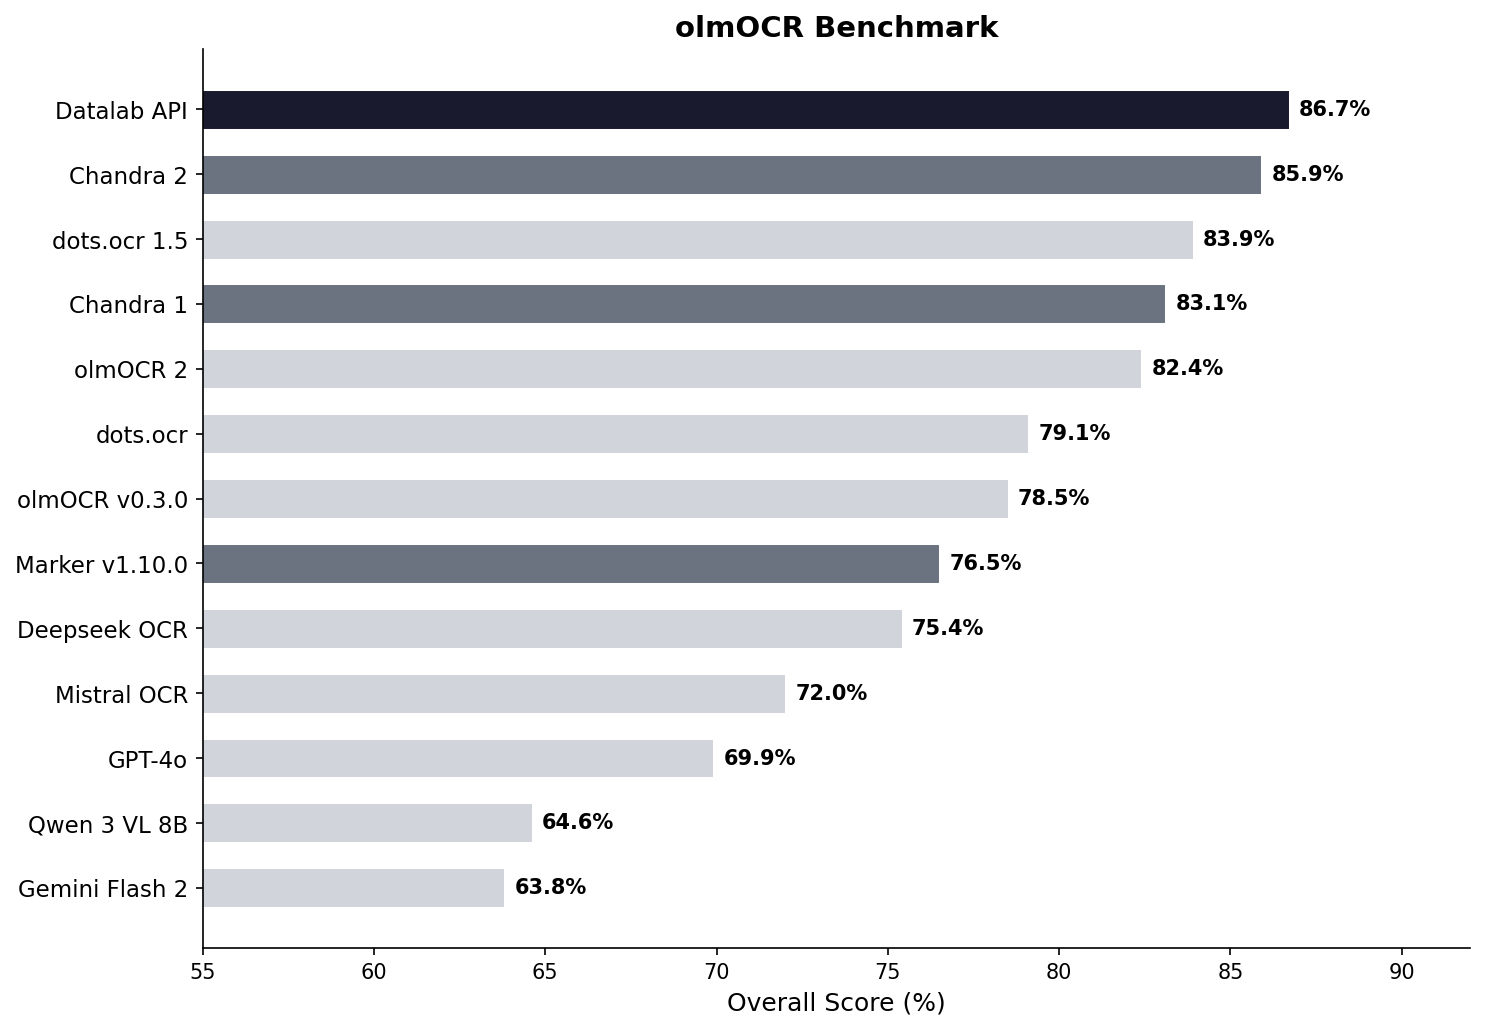
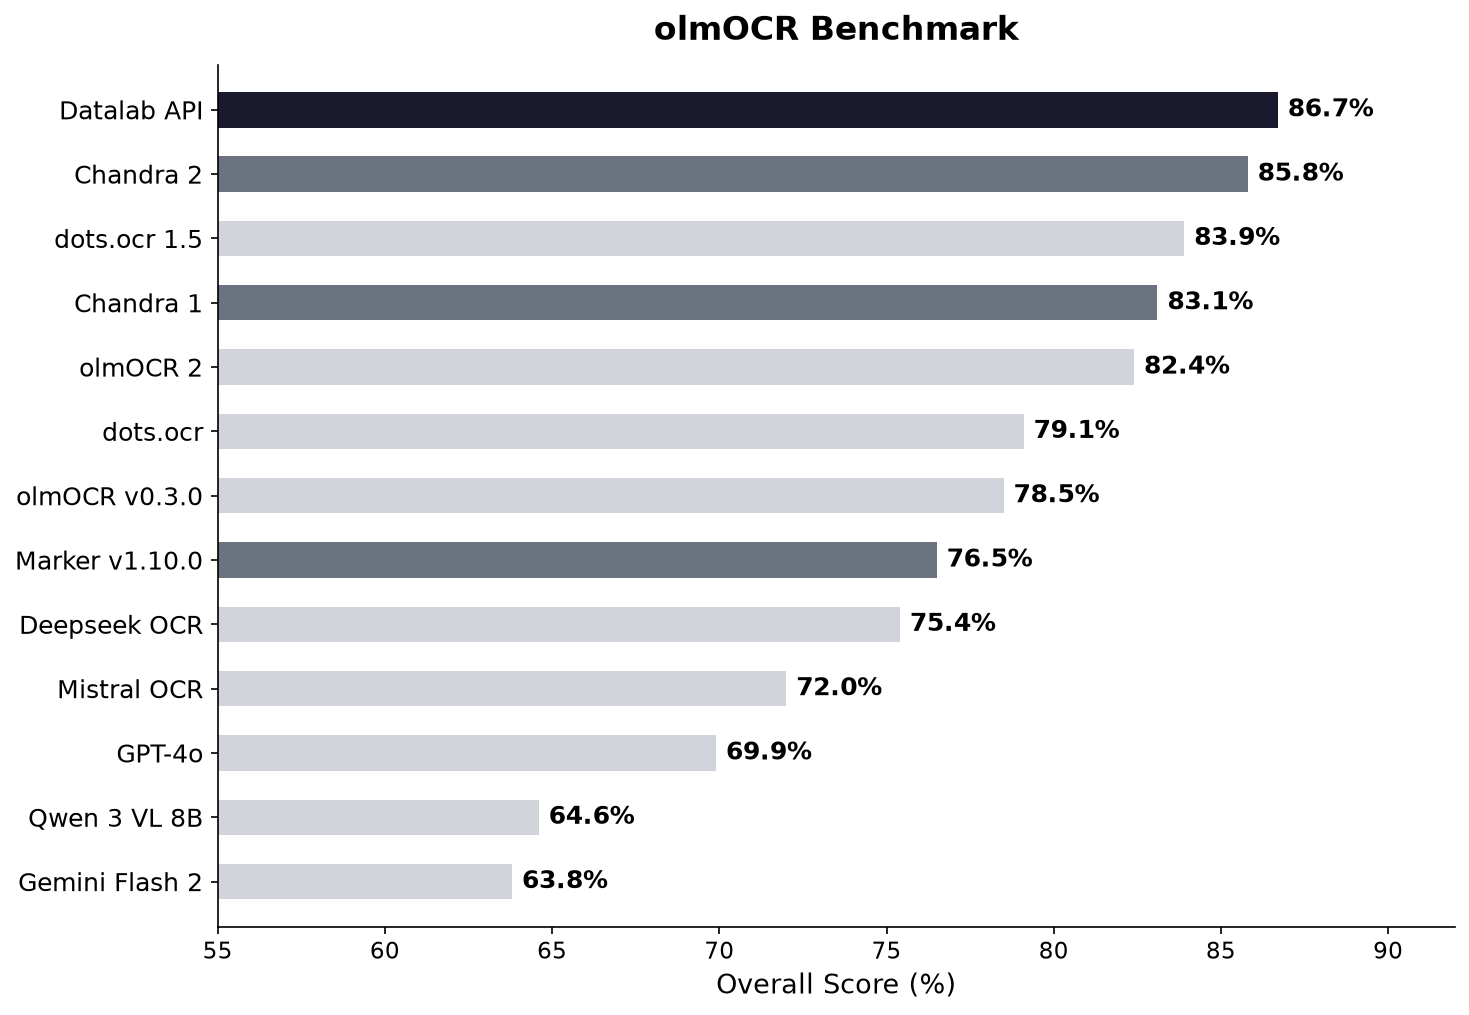
Merge pull request #110 from datalab-to/dev
Dev

Pull request: Dev

diff --git a/chandra/scripts/olmocr_bench.py b/chandra/scripts/olmocr_bench.py
@@ -1,0 +1,260 @@
+"""
+Reproduce Chandra-OCR-2's score on the upstream olmOCR-bench
+(github.com/allenai/olmocr), end to end:
+
+  1. download the olmOCR-bench dataset (allenai/olmOCR-bench) from HuggingFace,
+  2. OCR every bench page with Chandra (this repo) against a running vLLM server,
+  3. apply postprocessing to correct Chandra markdown to more standard markdown.
+  4. score with `olmocr.bench.benchmark`.
+
+Reference result: ~85.8% overall.
+
+Usage:
+    # 1) in one terminal, serve the model (see OLMOCR_BENCH.md):
+    chandra_vllm
+    # 2) in another:
+    python -m chandra.scripts.olmocr_bench --bench-dir ./olmOCR-bench/bench_data
+"""
+
+import argparse
+import glob
+import html as _html
+import os
+import re
+import subprocess
+import sys
+
+import unicodeit
+
+from chandra.input import load_pdf_images
+from chandra.model import InferenceManager
+from chandra.model.schema import BatchInputItem
+from chandra.settings import settings
+
+
+# --------------------------- output-only postprocess ---------------------------
+def _latex_to_unicode(s: str) -> str:
+    """LaTeX -> Unicode for table-cell math, via the `unicodeit` library
+    (Greek, symbols, ^/_).  We pre-strip \\text/\\mathrm and \\frac (which
+    unicodeit leaves as-is), and post-strip any commands it didn't recognize."""
+    s = _html.unescape(s)
+    s = re.sub(r"\\(?:text|mathrm)\s*\{([^}]*)\}", r"\1", s)
+    s = re.sub(r"\\frac\s*\{([^{}]*)\}\s*\{([^{}]*)\}", r"\1/\2", s)
+    try:
+        s = unicodeit.replace(s)
+    except Exception:  # noqa: BLE001 - never let a stray token kill the doc
+        pass
+    s = (
+        re.sub(r"\\[a-zA-Z]+", "", s)
+        .replace("{", "")
+        .replace("}", "")
+        .replace("\\", "")
+    )
+    return re.sub(r"\s+", " ", s).strip()
+
+
+# Unicode sub/superscript maps for <sub>/<sup> digit+operator content.
+_SUP = {c: u for c, u in zip("0123456789+-=()n", "⁰¹²³⁴⁵⁶⁷⁸⁹⁺⁻⁼⁽⁾ⁿ")}
+_SUB = {c: u for c, u in zip("0123456789+-=()", "₀₁₂₃₄₅₆₇₈₉₊₋₌₍₎")}
+
+
+def _subsup_to_unicode(s: str) -> str:
+    """<sub>2</sub> -> ₂, <sup>2</sup> -> ²"""
+    s = re.sub(
+        r"<sub>(.*?)</sub>",
+        lambda m: "".join(_SUB.get(c, c) for c in m.group(1)),
+        s,
+        flags=re.S | re.I,
+    )
+    s = re.sub(
+        r"<sup>(.*?)</sup>",
+        lambda m: "".join(_SUP.get(c, c) for c in m.group(1)),
+        s,
+        flags=re.S | re.I,
+    )
+    return re.sub(r"</?su[bp]>", "", s)  # drop any leftover unmapped tags
+
+
+def _strip_escapes_outside_math(s: str) -> str:
+    """Drop the stray backslash-escapes chandra markdown conversion leaves behind (\\_ \\* \\$ ...)"""
+    parts = re.split(r"(\$\$.*?\$\$|\$[^$\n]+\$)", s, flags=re.S)
+    for i in range(0, len(parts), 2):  # even indices are non-math
+        parts[i] = re.sub(r"\\([_*$%&#.+()\[\]!>~^{}])", r"\1", parts[i])
+    return "".join(parts)
+
+
+def postprocess(md: str) -> str:
+    """Reformat Chandra markdown for olmoCR scoring (output-only).
+
+    * table-cell <math>..</math> -> Unicode (chandra has latex in tables)
+    * HTML-unescape inside prose math spans (\\&amp;c. -> \\&c.)
+    * <sub>/<sup> -> Unicode (chandra has sup tags in output)
+    * drop stray escape backslashes outside math spans (introduced by Chandra markdown renderer)
+    * drop synthesized figure captions (chandra-specific synth captions)
+    """
+    # only <math> tags Chandra leaves are inside tables -> convert to Unicode
+    s = re.sub(
+        r"<math\b[^>]*>(.*?)</math>",
+        lambda m: _latex_to_unicode(m.group(1)),
+        md,
+        flags=re.S | re.I,
+    )
+    s = re.sub(
+        r"\$\$(.+?)\$\$",
+        lambda m: "$$" + _html.unescape(m.group(1)) + "$$",
+        s,
+        flags=re.S,
+    )
+    s = re.sub(r"\$([^$\n]+)\$", lambda m: "$" + _html.unescape(m.group(1)) + "$", s)
+    s = _subsup_to_unicode(s)
+    s = _strip_escapes_outside_math(s)
+    # Drop image markdown (Chandra emits synthesized figure descriptions as alt
+    # text)
+    s = re.sub(r"!\[[^\]]*\]\([^)]*\)", "", s)
+    return s
+
+
+def download_bench(bench_dir: str) -> str:
+    """Ensure the olmOCR-bench data is present; return the bench_data dir."""
+    if os.path.isdir(os.path.join(bench_dir, "pdfs")):
+        return bench_dir
+    from huggingface_hub import snapshot_download
+
+    print("Downloading allenai/olmOCR-bench from HuggingFace ...")
+    local = snapshot_download(
+        repo_id="allenai/olmOCR-bench",
+        repo_type="dataset",
+        allow_patterns=["bench_data/**"],
+    )
+    src = os.path.join(local, "bench_data")
+    os.makedirs(os.path.dirname(bench_dir) or ".", exist_ok=True)
+    import shutil
+
+    shutil.copytree(src, bench_dir, dirs_exist_ok=True)
+    return bench_dir
+
+
+def run_inference(
+    bench_dir, candidate, image_dpi, workers, vllm_api_base, apply_postprocess=True
+):
+    pdf_dir = os.path.join(bench_dir, "pdfs")
+    pdfs = sorted(glob.glob(os.path.join(pdf_dir, "**", "*.pdf"), recursive=True))
+    cand_dir = os.path.join(bench_dir, candidate)
+    print(f"OCR'ing {len(pdfs)} bench pages with Chandra (dpi={image_dpi}) ...")
+    mgr = InferenceManager(method="vllm")
+
+    def out_path(pdf):
+        rel = os.path.relpath(pdf, pdf_dir)
+        return os.path.join(cand_dir, f"{os.path.splitext(rel)[0]}_pg1_repeat1.md")
+
+    done, buf = 0, []
+
+    def flush(batch):
+        nonlocal done
+        if not batch:
+            return
+        items = [BatchInputItem(image=im, prompt_type="ocr_layout") for _, im in batch]
+        outs = mgr.generate(items, vllm_api_base=vllm_api_base, max_workers=workers)
+        for (pdf, _im), out in zip(batch, outs):
+            op = out_path(pdf)
+            os.makedirs(os.path.dirname(op), exist_ok=True)
+            md = out.markdown or ""
+            with open(op, "w", encoding="utf-8") as f:
+                f.write(postprocess(md) if apply_postprocess else md)
+        done += len(batch)
+        print(f"  {done}/{len(pdfs)}")
+
+    for pdf in pdfs:
+        if os.path.exists(out_path(pdf)):  # resumable
+            continue
+        try:
+            imgs = load_pdf_images(pdf, page_range=[0], image_dpi=image_dpi)
+        except Exception as e:
+            print(f"  render failed {pdf}: {e}")
+            continue
+        if imgs:
+            buf.append((pdf, imgs[0]))
+        if len(buf) >= workers:
+            flush(buf)
+            buf = []
+    flush(buf)
+    return cand_dir
+
+
+def main():
+    ap = argparse.ArgumentParser(
+        description="Benchmark Chandra on upstream olmOCR-bench."
+    )
+    ap.add_argument(
+        "--bench-dir",
+        default="./olmOCR-bench/bench_data",
+        help="Path to olmOCR-bench bench_data (downloaded if missing).",
+    )
+    ap.add_argument("--candidate", default="chandra", help="Candidate subdir name.")
+    ap.add_argument(
+        "--image-dpi", type=int, default=300, help="Render DPI (300 recommended)."
+    )
+    ap.add_argument("--workers", type=int, default=32, help="Concurrent vLLM requests.")
+    ap.add_argument(
+        "--vllm-api-base",
+        default=settings.VLLM_API_BASE,
+        help="vLLM OpenAI base URL (default from settings).",
+    )
+    ap.add_argument(
+        "--skip-inference",
+        action="store_true",
+        help="Reuse existing candidate markdown; only score.",
+    )
+    ap.add_argument(
+        "--skip-scoring",
+        action="store_true",
+        help="Only produce candidate markdown; don't run olmocr.bench.",
+    )
+    ap.add_argument(
+        "--stock",
+        action="store_true",
+        help="Stock baseline: render at DPI-192 and apply NO output postprocess",
+    )
+    args = ap.parse_args()
+
+    bench_dir = download_bench(args.bench_dir)
+    image_dpi = 192 if args.stock else args.image_dpi
+    if not args.skip_inference:
+        run_inference(
+            bench_dir,
+            args.candidate,
+            image_dpi,
+            args.workers,
+            args.vllm_api_base,
+            apply_postprocess=not args.stock,
+        )
+
+    if args.skip_scoring:
+        print(f"\nCandidate written to {os.path.join(bench_dir, args.candidate)}")
+        print(
+            "Score it with:  python -m olmocr.bench.benchmark "
+            f"--dir {bench_dir} --candidate {args.candidate}"
+        )
+        return
+
+    cmd = [
+        sys.executable,
+        "-m",
+        "olmocr.bench.benchmark",
+        "--dir",
+        bench_dir,
+        "--candidate",
+        args.candidate,
+    ]
+    print("\nScoring with upstream olmocr.bench:\n  " + " ".join(cmd) + "\n")
+    try:
+        subprocess.run(cmd, check=True)
+    except FileNotFoundError:
+        print(
+            "olmocr not installed. Install with: pip install olmocr[bench] && playwright install chromium"
+        )
+        sys.exit(1)
+
+
+if __name__ == "__main__":
+    main()

diff --git a/chandra/scripts/OLMOCR_BENCH.md b/chandra/scripts/OLMOCR_BENCH.md
@@ -1,0 +1,53 @@
+# Reproducing Chandra OCR 2 on olmOCR-bench
+
+End-to-end reproduction of Chandra-OCR-2's score on the upstream
+[olmOCR-bench](https://github.com/allenai/olmocr) (`allenai/olmOCR-bench`).
+
+**Reference result:** ~**85.8%** overall.  This is slightly below the 85.9% we measured at launch - this is mainly due to some text normalization we used in our launch benchmarking that differed from the standard olmocr benchmark.
+
+---
+
+## 1. Clone + install Chandra
+
+```bash
+git clone https://github.com/datalab-to/chandra.git
+cd chandra
+pip install -e .                 # or: pip install chandra-ocr
+pip install huggingface_hub unicodeit     # for the bench
+```
+
+## 2. Serve the model with vLLM
+
+In one terminal (needs a GPU + Docker; see the main README):
+
+```bash
+chandra_vllm                     # serves datalab-to/chandra-ocr-2 on :8000
+```
+
+This uses the repo's serving config.
+
+## 3. Install the upstream olmOCR bench (for scoring)
+
+```bash
+pip install "olmocr[bench]"
+playwright install-deps && playwright install chromium   # KaTeX math rendering
+```
+
+## 4. Run the benchmark
+
+In a second terminal:
+
+```bash
+python -m chandra.scripts.olmocr_bench --bench-dir ./olmOCR-bench/bench_data
+```
+
+This downloads olmOCR-bench (first run only), OCRs all ~1,400 pages via the vLLM
+server, postprocesses, and prints the upstream score.
+
+### Useful flags
+- `--image-dpi 300` (default)
+- `--workers 32` — concurrent vLLM requests.
+- `--vllm-api-base http://localhost:8000/v1` — override the server URL.
+- `--skip-inference` — reuse candidate markdown already written; only re-score.
+- `--skip-scoring` — only produce candidate markdown (prints the olmocr command).
+- `--stock` - use stock settings/no chandra format correction

diff --git a/README.md b/README.md
@@ -206,21 +206,21 @@ This code is Apache 2.0, and our model weights use a modified OpenRAIL-M license
 
 # Benchmark table
 
-| **Model**                 |  ArXiv   | Old Scans Math |  Tables  | Old Scans | Headers and Footers | Multi column | Long tiny text | Base |    Overall     | Source |
-|:--------------------------|:--------:|:--------------:|:--------:|:---------:|:-------------------:|:------------:|:--------------:|:----:|:--------------:|:------:|
-| Datalab API               | **90.4** | **90.2** | **90.7** | **54.6** |        91.6         |     83.7     |    **92.3**    | **99.9** | **86.7 ± 0.8** | Own benchmarks |
-| Chandra 2                 |   90.2   |   89.3   |   89.9   |   49.8   |        92.5         |     83.5     |      92.1      | 99.6 |   85.9 ± 0.8   | Own benchmarks |
-| dots.ocr 1.5              |   85.9   |   85.5   | **90.7** |   48.2   |        94.0         |   **85.3**   |      81.6      | 99.7 |   83.9         | dots.ocr repo |
-| Chandra 1                 |   82.2   |   80.3   |   88.0   |   50.4   |        90.8         |     81.2     |    **92.3**    | **99.9** |   83.1 ± 0.9   | Own benchmarks |
-| olmOCR 2                  |   83.0   |   82.3   |   84.9   |   47.7   |      **96.1**       |     83.7     |      81.9      | 99.6 |   82.4         | olmocr repo |
-| dots.ocr                  |   82.1   |   64.2   |   88.3   |   40.9   |        94.1         |     82.4     |      81.2      | 99.5 |   79.1 ± 1.0   | dots.ocr repo |
-| olmOCR v0.3.0             |   78.6   |   79.9   |   72.9   |   43.9   |        95.1         |     77.3     |      81.2      | 98.9 |   78.5 ± 1.1   | olmocr repo |
-| Datalab Marker v1.10.0    |   83.8   |   69.7   |   74.8   |   32.3   |        86.6         |     79.4     |      85.7      | 99.6 |   76.5 ± 1.0   | Own benchmarks |
-| Deepseek OCR              |   75.2   |   72.3   |   79.7   |   33.3   |      **96.1**       |     66.7     |      80.1      | 99.7 |   75.4 ± 1.0   | Own benchmarks |
-| Mistral OCR API           |   77.2   |   67.5   |   60.6   |   29.3   |        93.6         |     71.3     |      77.1      | 99.4 |   72.0 ± 1.1   | olmocr repo |
-| GPT-4o (Anchored)         |   53.5   |   74.5   |   70.0   |   40.7   |        93.8         |     69.3     |      60.6      | 96.8 |   69.9 ± 1.1   | olmocr repo |
-| Qwen 3 VL 8B              |   70.2   |   75.1   |   45.6   |   37.5   |        89.1         |     62.1     |      43.0      | 94.3 |   64.6 ± 1.1   | Own benchmarks |
-| Gemini Flash 2 (Anchored) |   54.5   |   56.1   |   72.1   |   34.2   |        64.7         |     61.5     |      71.5      | 95.6 |   63.8 ± 1.2   | olmocr repo |
+| **Model**                 |  ArXiv   | Old Scans Math |  Tables  | Old Scans | Headers and Footers | Multi column | Long tiny text |   Base   |    Overall     |     Source     |
+|:--------------------------|:--------:|:--------------:|:--------:|:---------:|:-------------------:|:------------:|:--------------:|:--------:|:--------------:|:--------------:|
+| Datalab API               | **90.4** |    **90.2**    |   90.7   | **54.6**  |        91.6         |     83.7     |      92.3      | **99.9** | **86.7 ± 0.8** | Own benchmarks |
+| Chandra 2                 |   86.9   |      89.1      | **92.1** |   51.1    |        91.4         |     82.1     |    **93.7**    | **99.9** |   85.8 ± 0.8   | Own benchmarks |
+| dots.ocr 1.5              |   85.9   |      85.5      |   90.7   |   48.2    |        94.0         |   **85.3**   |      81.6      |   99.7   |      83.9      | dots.ocr repo  |
+| Chandra 1                 |   82.2   |      80.3      |   88.0   |   50.4    |        90.8         |     81.2     |      92.3      | **99.9** |   83.1 ± 0.9   | Own benchmarks |
+| olmOCR 2                  |   83.0   |      82.3      |   84.9   |   47.7    |      **96.1**       |     83.7     |      81.9      |   99.6   |      82.4      |  olmocr repo   |
+| dots.ocr                  |   82.1   |      64.2      |   88.3   |   40.9    |        94.1         |     82.4     |      81.2      |   99.5   |   79.1 ± 1.0   | dots.ocr repo  |
+| olmOCR v0.3.0             |   78.6   |      79.9      |   72.9   |   43.9    |        95.1         |     77.3     |      81.2      |   98.9   |   78.5 ± 1.1   |  olmocr repo   |
+| Datalab Marker v1.10.0    |   83.8   |      69.7      |   74.8   |   32.3    |        86.6         |     79.4     |      85.7      |   99.6   |   76.5 ± 1.0   | Own benchmarks |
+| Deepseek OCR              |   75.2   |      72.3      |   79.7   |   33.3    |      **96.1**       |     66.7     |      80.1      |   99.7   |   75.4 ± 1.0   | Own benchmarks |
+| Mistral OCR API           |   77.2   |      67.5      |   60.6   |   29.3    |        93.6         |     71.3     |      77.1      |   99.4   |   72.0 ± 1.1   |  olmocr repo   |
+| GPT-4o (Anchored)         |   53.5   |      74.5      |   70.0   |   40.7    |        93.8         |     69.3     |      60.6      |   96.8   |   69.9 ± 1.1   |  olmocr repo   |
+| Qwen 3 VL 8B              |   70.2   |      75.1      |   45.6   |   37.5    |        89.1         |     62.1     |      43.0      |   94.3   |   64.6 ± 1.1   | Own benchmarks |
+| Gemini Flash 2 (Anchored) |   54.5   |      56.1      |   72.1   |   34.2    |        64.7         |     61.5     |      71.5      |   95.6   |   63.8 ± 1.2   |  olmocr repo   |
 
 
 # Multilingual benchmark table